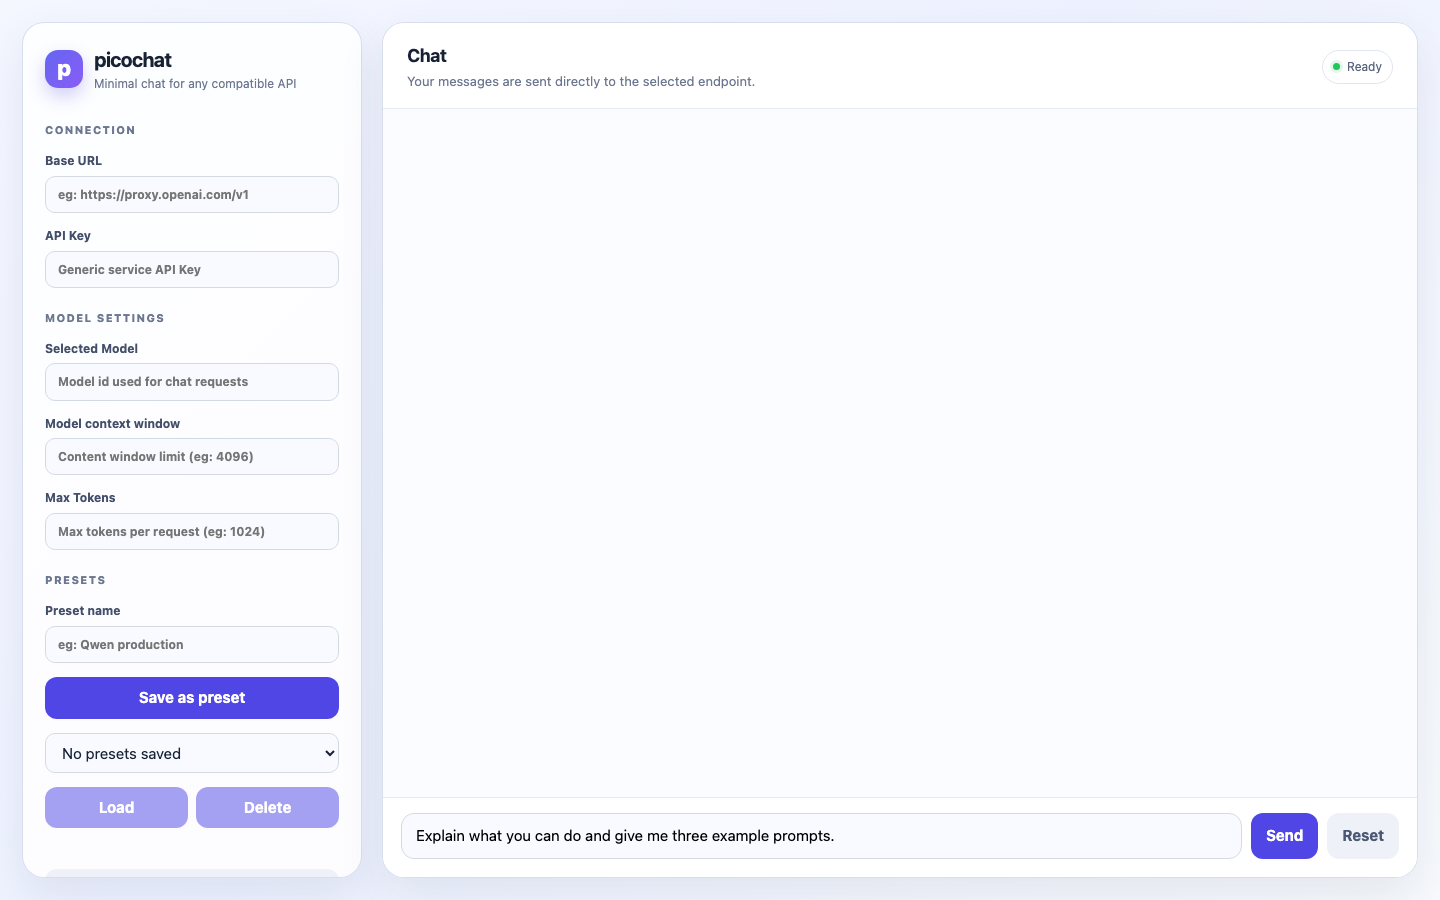
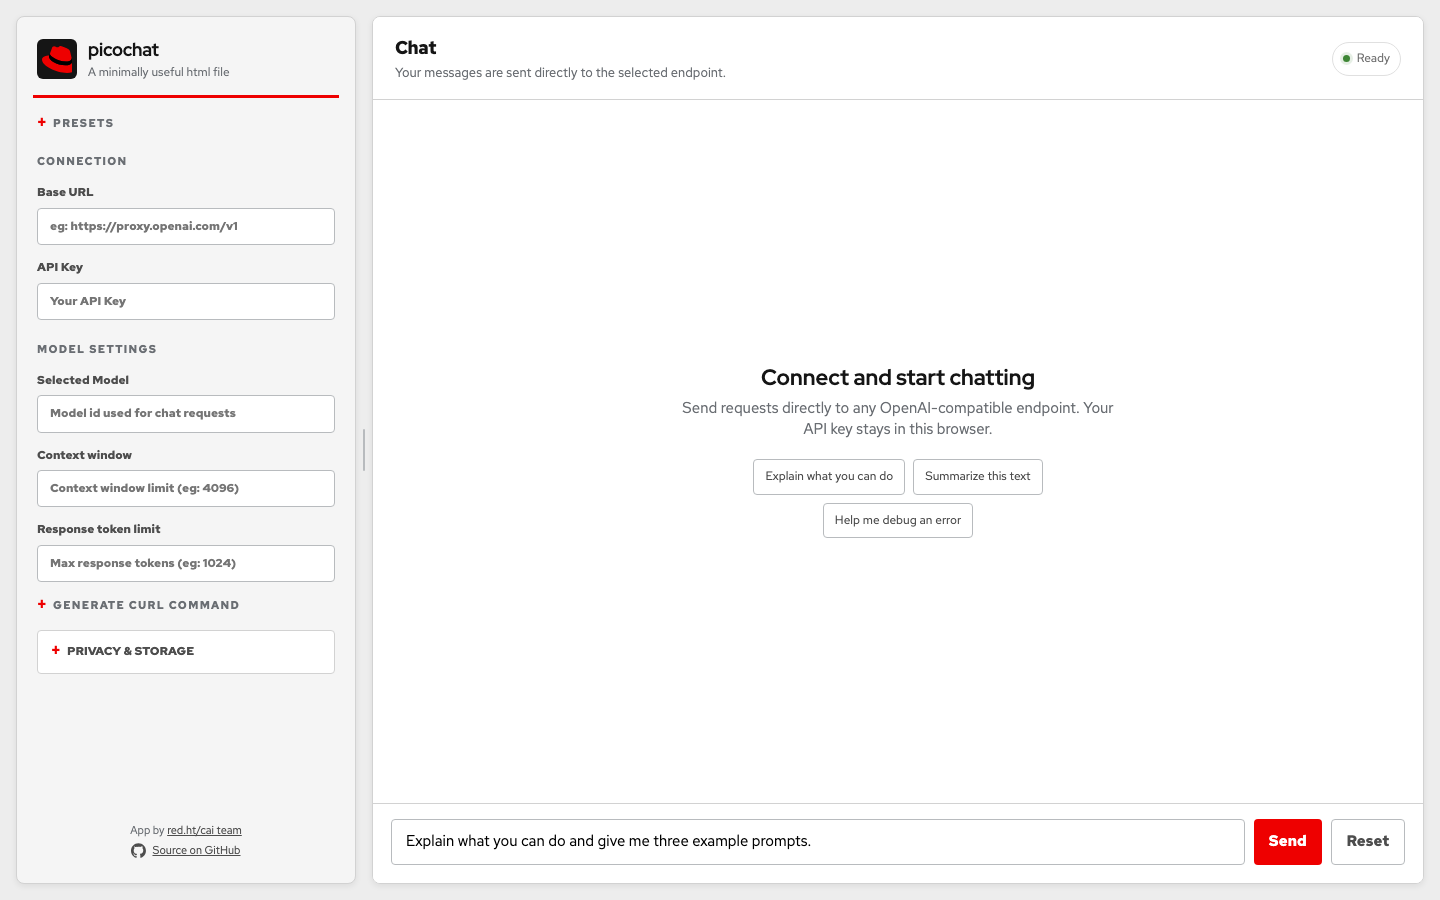
Add app attribution and source link; update backlog and improve UI elements

diff --git a/index.html b/index.html
@@ -8,50 +8,51 @@
 <link rel="preconnect" href="https://fonts.gstatic.com" crossorigin>
 <link rel="stylesheet" href="https://fonts.googleapis.com/css2?family=Red+Hat+Display:wght@500;700;800&family=Red+Hat+Mono:wght@400;700&family=Red+Hat+Text:wght@400;700&display=swap">
 <style>
-  :root { color-scheme: light; --ink: #151515; --muted: #707070; --line: #e0e0e0;
-           --panel: #fff; --accent: #e00; --accent-dark: #c00; }
+  :root { color-scheme: light; --ink: #151515; --muted: #6a6e73; --line: #d2d2d2;
+           --panel: #fff; --subtle: #f5f5f5; --accent: #ee0000; --accent-dark: #b00;
+           --focus: #0066cc; --success: #3e8635; --cfg-width: 340px; }
   * { box-sizing: border-box; }
   body { margin: 0; height: 100dvh; overflow: hidden;
-         font: 15px/1.45 "Red Hat Text", "RedHatText", system-ui, -apple-system, sans-serif; background: #f2f2f2; color: var(--ink); }
-  main { display: grid; grid-template-columns: minmax(290px, 340px) minmax(0, 1fr); height: 100%; gap: 20px; padding: 22px; }
-  #cfg, #right { min-height: 0; border: 1px solid #e0e0e0; border-radius: 22px; box-shadow: 0 18px 45px rgba(21,21,21,.08); }
-  #cfg { display: flex; flex-direction: column; gap: 14px; padding: 22px; background: var(--panel); overflow-y: auto; }
-  .brand { display: flex; align-items: center; gap: 11px; margin: 0 0 4px; padding: 12px 14px; border-radius: 14px; background: #151515; }
-  .logo { display: grid; place-items: center; width: 40px; height: 40px; flex: none; border-radius: 10px; background: #fff; padding: 5px; }
+         font: 15px/1.45 "Red Hat Text", "RedHatText", system-ui, -apple-system, sans-serif; background: #ededed; color: var(--ink); }
+  main { display: grid; grid-template-columns: var(--cfg-width) 16px minmax(0, 1fr); height: 100%; padding: 16px; }
+  #cfg, #right { min-height: 0; border: 1px solid var(--line); border-radius: 8px; box-shadow: 0 2px 6px rgba(21,21,21,.08); }
+  #cfg { display: flex; flex-direction: column; gap: 14px; padding: 20px; background: var(--subtle); overflow-y: auto; }
+  .brand { display: flex; align-items: center; gap: 11px; margin: -4px -4px 2px; padding: 4px 4px 14px; border-bottom: 3px solid var(--accent); }
+  .logo { display: grid; place-items: center; width: 40px; height: 40px; flex: none; border-radius: 6px; background: #151515; padding: 5px; }
   .logo svg { width: 100%; height: 100%; display: block; }
-  .brand h1 { margin: 0; font-family: "Red Hat Display", "RedHatDisplay", sans-serif; font-size: 18px; font-weight: 700; letter-spacing: -.01em; color: #fff; }
-  .brand p { margin: 1px 0 0; color: #a3a3a3; font-size: 12px; }
+  .brand h1 { margin: 0; font-family: "Red Hat Display", "RedHatDisplay", sans-serif; font-size: 18px; font-weight: 700; letter-spacing: -.01em; color: var(--ink); }
+  .brand p { margin: 1px 0 0; color: var(--muted); font-size: 12px; }
   .section-title { margin: 8px 0 0; color: var(--muted); font-size: 11px; font-weight: 800; letter-spacing: .12em; text-transform: uppercase; }
   #cfg label { font-weight: 700; font-size: 12px; color: #4d4d4d; display: flex; flex-direction: column; gap: 6px; }
-  input { font: inherit; padding: 9px 12px; border: 1px solid #c7c7c7; border-radius: 10px;
+  input { font: inherit; padding: 9px 12px; border: 1px solid #b8bbbe; border-radius: 4px;
           background: #fff; outline: none; min-width: 0; transition: border-color .15s, box-shadow .15s, background .15s; }
-  input:focus { border-color: #e00; background: #fff; box-shadow: 0 0 0 3px rgba(238,0,0,.10); }
-  select { width: 100%; font: inherit; padding: 9px 12px; border: 1px solid #c7c7c7; border-radius: 10px; background: #fff; color: var(--ink); }
-  select:focus { border-color: #e00; outline: none; box-shadow: 0 0 0 3px rgba(238,0,0,.10); }
+  input:focus { border-color: var(--focus); background: #fff; box-shadow: 0 0 0 2px rgba(0,102,204,.18); }
+  select { width: 100%; font: inherit; padding: 9px 12px; border: 1px solid #b8bbbe; border-radius: 4px; background: #fff; color: var(--ink); }
+  select:focus { border-color: var(--focus); outline: none; box-shadow: 0 0 0 2px rgba(0,102,204,.18); }
   textarea { font: 12px/1.35 "Red Hat Mono", "RedHatMono", ui-monospace, SFMono-Regular, Menlo, monospace; padding: 10px;
-             border: 1px solid #c7c7c7; border-radius: 12px; background: #fff; resize: vertical; }
-  textarea:focus { border-color: #e00; background: #fff; outline: none; box-shadow: 0 0 0 3px rgba(238,0,0,.10); }
+             border: 1px solid #b8bbbe; border-radius: 4px; background: #fff; resize: vertical; }
+  textarea:focus { border-color: var(--focus); background: #fff; outline: none; box-shadow: 0 0 0 2px rgba(0,102,204,.18); }
   #right { min-width: 0; display: flex; flex-direction: column; overflow: hidden; background: rgba(255,255,255,.9); }
-  .chat-head { display: flex; align-items: center; justify-content: space-between; gap: 12px; padding: 20px 24px 17px; border-bottom: 1px solid var(--line); background: rgba(255,255,255,.7); }
+  .chat-head { display: flex; align-items: center; justify-content: space-between; gap: 12px; padding: 18px 22px 16px; border-bottom: 1px solid var(--line); background: #fff; }
   .chat-head h2 { margin: 0; font-size: 18px; letter-spacing: -.02em; }
   .chat-head p { margin: 3px 0 0; color: var(--muted); font-size: 13px; }
   .status { display: inline-flex; align-items: center; gap: 7px; padding: 7px 10px; border: 1px solid #e0e0e0; border-radius: 999px; color: #707070; font-size: 12px; white-space: nowrap; }
-  .status::before { content: ''; width: 7px; height: 7px; border-radius: 50%; background: #22c55e; box-shadow: 0 0 0 3px rgba(34,197,94,.13); }
+  .status::before { content: ''; width: 7px; height: 7px; border-radius: 50%; background: var(--success); box-shadow: 0 0 0 3px rgba(62,134,53,.13); }
   #chat { flex: 1; min-height: 0; overflow-y: auto; display: flex; flex-direction: column;
           gap: 12px; padding: 24px; background: #fff; }
-  .msg { max-width: 75%; padding: 11px 14px; border-radius: 16px; white-space: pre-wrap; overflow-wrap: break-word; box-shadow: 0 5px 14px rgba(21,21,21,.05); }
-  .msg.user { align-self: flex-end; background: #151515; color: #fff; border-bottom-right-radius: 5px; }
-  .msg.assistant { align-self: flex-start; background: #fff; border: 1px solid #e0e0e0; border-bottom-left-radius: 5px; }
-  .msg.error { align-self: center; background: #fde8e8; color: #9b1c1c; font-size: 13px;
+  .msg { max-width: 75%; padding: 11px 14px; border-radius: 8px; white-space: pre-wrap; overflow-wrap: break-word; box-shadow: 0 1px 3px rgba(21,21,21,.08); }
+  .msg.user { align-self: flex-end; background: #151515; color: #fff; border-bottom-right-radius: 3px; }
+  .msg.assistant { align-self: flex-start; background: #fff; border: 1px solid #d2d2d2; border-left: 3px solid var(--accent); border-bottom-left-radius: 3px; }
+  .msg.error { align-self: center; background: #fff0f0; border: 1px solid #c9190b; color: #7d1007; font-size: 13px;
                font-family: "Red Hat Mono", "RedHatMono", ui-monospace, SFMono-Regular, Menlo, monospace; }
   form { display: flex; gap: 9px; padding: 15px 18px 18px; border-top: 1px solid var(--line); background: #fff; }
-  #prompt { flex: 1; padding: 11px 14px; border-radius: 13px; }
-  button { font: inherit; font-weight: 700; padding: 10px 15px; border: none; border-radius: 12px;
+  #prompt { flex: 1; padding: 11px 14px; border-radius: 4px; }
+  button { font: inherit; font-weight: 700; padding: 10px 15px; border: none; border-radius: 4px;
            background: var(--accent); color: #fff; cursor: pointer; transition: background .15s, transform .15s; }
   button:hover { background: var(--accent-dark); }
   button:active { transform: translateY(1px); }
   button:disabled { opacity: .5; cursor: default; }
-  #reset, #curl { background: #f2f2f2; color: #4d4d4d; }
+  #reset, #curl { background: #fff; color: #4d4d4d; border: 1px solid #b8bbbe; }
   #reset:hover, #curl:hover { background: #e0e0e0; }
   .button-row { display: flex; gap: 8px; }
   .button-row button { flex: 1; }
@@ -65,11 +66,29 @@
   details.collapsible summary::before { content: '+'; display: inline-block; width: 16px; color: var(--accent); font-size: 16px; letter-spacing: 0; line-height: 10px; vertical-align: -1px; }
   details.collapsible[open] summary::before { content: '−'; }
   .collapsible-body { display: grid; gap: 14px; margin-top: 12px; }
-  .privacy-note { margin-top: auto; padding: 12px 13px; border: 1px solid #e0e0e0; border-radius: 12px; background: #f2f2f2; color: #707070; font-size: 12px; }
+  .privacy-note { padding: 12px 13px; border: 1px solid #d2d2d2; border-radius: 4px; background: #fff; color: #707070; font-size: 12px; }
+  .app-meta { margin-top: auto; padding-top: 2px; color: var(--muted); font-size: 11px; text-align: center; }
+  .app-meta p { margin: 0; }
+  .app-meta a { color: #4d4d4d; }
+  .app-meta a:hover { color: var(--accent-dark); }
+  .app-meta .source-link { display: inline-flex; align-items: center; justify-content: center; gap: 6px; margin-top: 4px; font-size: 11px; }
+  .app-meta .source-link svg { width: 15px; height: 15px; fill: currentColor; }
+  button:focus-visible, input:focus-visible, select:focus-visible, textarea:focus-visible, summary:focus-visible { outline: 2px solid var(--focus); outline-offset: 2px; }
+  #empty-state { margin: auto; max-width: 500px; padding: 28px; text-align: center; color: var(--muted); }
+  #empty-state h3 { margin: 0 0 6px; color: var(--ink); font: 700 22px/1.2 "Red Hat Display", sans-serif; }
+  #empty-state p { margin: 0 0 18px; }
+  .examples { display: flex; flex-wrap: wrap; justify-content: center; gap: 8px; }
+  .example { padding: 8px 11px; border: 1px solid #b8bbbe; background: #fff; color: #4d4d4d; font-size: 12px; font-weight: 400; }
+  .example:hover { border-color: var(--focus); background: #f0f7ff; }
+  #resize-handle { position: relative; cursor: col-resize; touch-action: none; }
+  #resize-handle::before { content: ''; position: absolute; top: 50%; left: 50%; width: 2px; height: 42px;
+                            border-radius: 2px; background: #b8bbbe; transform: translate(-50%, -50%); transition: height .15s, background .15s; }
+  #resize-handle:hover::before, #resize-handle:focus-visible::before, #resize-handle.dragging::before { height: 64px; background: var(--accent); }
   .privacy-note summary { color: #4d4d4d !important; letter-spacing: 0 !important; font-size: 12px !important; }
   .privacy-note .collapsible-body { display: block; margin-top: 10px; line-height: 1.5; }
   @media (max-width: 900px) {
     main { display: flex; flex-direction: column; overflow-y: auto; padding: 12px; }
+    #resize-handle { display: none; }
     #cfg { flex: none; }
     .chat-head { padding: 16px 18px; }
     #chat { padding: 18px; }
@@ -97,20 +116,43 @@
     <label>API Key<input id="key" type="password" list="hist-key" placeholder="Your API Key" autocomplete="off"><datalist id="hist-key"></datalist></label>
     <div class="section-title">Model settings</div>
     <label>Selected Model<input id="model" list="hist-model" placeholder="Model id used for chat requests" spellcheck="false"><datalist id="hist-model"></datalist></label>
-    <label>Model context window<input id="ctx" type="number" min="1" list="hist-ctx" placeholder="Content window limit (eg: 4096)"><datalist id="hist-ctx"></datalist></label>
-    <label>Max Tokens<input id="max" type="number" min="1" list="hist-max" placeholder="Max tokens per request (eg: 1024)"><datalist id="hist-max"></datalist></label>
-    <button id="curl" type="button" title="Generate a curl command from the current settings">Generate curl command</button>
-    <textarea id="curl-out" rows="7" readonly aria-label="Generated curl command" placeholder="The generated curl command will appear here"></textarea>
+    <label>Context window<input id="ctx" type="number" min="1" list="hist-ctx" placeholder="Context window limit (eg: 4096)"><datalist id="hist-ctx"></datalist></label>
+    <label>Response token limit<input id="max" type="number" min="1" list="hist-max" placeholder="Max response tokens (eg: 1024)"><datalist id="hist-max"></datalist></label>
+    <details class="collapsible curl-section">
+      <summary>Generate curl command</summary>
+      <div class="collapsible-body">
+        <button id="curl" type="button" title="Generate a curl command from the current settings">Generate curl command</button>
+        <textarea id="curl-out" rows="7" readonly aria-label="Generated curl command" placeholder="The generated curl command will appear here"></textarea>
+      </div>
+    </details>
     <details class="collapsible privacy-note">
       <summary>Privacy &amp; storage</summary>
       <div class="collapsible-body">
         picochat has no backend: your messages and responses stay in this browser's memory and are cleared when the page is reloaded. Connection settings, API keys, recent values, and presets are saved only in this browser's local storage. When you send a message, the conversation and API key go directly to the endpoint you entered; that service's own privacy and retention rules still apply. Avoid using picochat on a shared or untrusted browser. You can also download this <code>index.html</code> file and open it locally if you prefer not to use a hosted copy.
       </div>
     </details>
+    <footer class="app-meta">
+      <p>App by <a href="http://red.ht/cai-team" target="_blank" rel="noreferrer">red.ht/cai team</a></p>
+      <a class="source-link" href="https://github.com/rh-aiservices-bu/picochat" target="_blank" rel="noreferrer">
+        <svg viewBox="0 0 98 96" aria-hidden="true"><path fill-rule="evenodd" d="M48.854 0C21.839 0 0 22 0 49.217c0 21.756 13.993 40.172 33.405 46.69 2.427.49 3.316-1.059 3.316-2.362 0-1.141-.08-5.052-.08-9.127-13.59 2.934-16.42-5.867-16.42-5.867-2.184-5.704-5.42-7.17-5.42-7.17-4.448-3.015.324-3.015.324-3.015 4.934.326 7.523 5.052 7.523 5.052 4.367 7.496 11.404 5.378 14.235 4.074.404-3.178 1.699-5.378 3.074-6.6-10.839-1.141-22.243-5.378-22.243-24.283 0-5.378 1.94-9.778 5.014-13.2-.485-1.222-2.184-6.275.486-13.038 0 0 4.125-1.304 13.426 5.052a46.97 46.97 0 0 1 12.214-1.63c4.125 0 8.33.571 12.213 1.63 9.302-6.356 13.427-5.052 13.427-5.052 2.67 6.763.97 11.816.485 13.038 3.155 3.422 5.015 7.822 5.015 13.2 0 18.905-11.404 23.06-22.324 24.283 1.78 1.548 3.316 4.481 3.316 9.126 0 6.6-.08 11.897-.08 13.526 0 1.304.89 2.853 3.316 2.364 19.412-6.52 33.405-24.935 33.405-46.691C97.707 22 75.788 0 48.854 0z"/></svg>
+        Source on GitHub
+      </a>
+    </footer>
   </section>
+  <div id="resize-handle" role="separator" aria-label="Resize configuration panel" aria-orientation="vertical" aria-valuemin="290" aria-valuemax="520" aria-valuenow="340" tabindex="0"></div>
   <div id="right">
-    <header class="chat-head"><div><h2>Chat</h2><p>Your messages are sent directly to the selected endpoint.</p></div><span class="status">Ready</span></header>
-    <section id="chat" aria-live="polite"></section>
+  <header class="chat-head"><div><h2>Chat</h2><p>Your messages are sent directly to the selected endpoint.</p></div><span id="status" class="status" aria-live="polite">Ready</span></header>
+    <section id="chat" aria-live="polite">
+      <div id="empty-state">
+        <h3>Connect and start chatting</h3>
+        <p>Send requests directly to any OpenAI-compatible endpoint. Your API key stays in this browser.</p>
+        <div class="examples" aria-label="Example prompts">
+          <button class="example" type="button">Explain what you can do</button>
+          <button class="example" type="button">Summarize this text</button>
+          <button class="example" type="button">Help me debug an error</button>
+        </div>
+      </div>
+    </section>
     <form id="send">
       <input id="prompt" placeholder="Send a message…" autocomplete="off">
       <button id="go" type="submit">Send</button>
@@ -245,13 +287,72 @@ $('delete-preset').onclick = () => {
 };
 renderPresets();
 
+// ---- resizable configuration panel ----
+const main = document.querySelector('main');
+const resizeHandle = $('resize-handle');
+const LAYOUT = 'picochat.layout.v1';
+const MIN_CFG_WIDTH = 290;
+const MAX_CFG_WIDTH = 520;
+
+function maxCfgWidth() {
+  return Math.max(MIN_CFG_WIDTH, Math.min(MAX_CFG_WIDTH, main.clientWidth - 16 - 320));
+}
+function setCfgWidth(width, save = false) {
+  const next = Math.round(Math.max(MIN_CFG_WIDTH, Math.min(maxCfgWidth(), width)));
+  main.style.setProperty('--cfg-width', next + 'px');
+  resizeHandle.setAttribute('aria-valuenow', next);
+  if (save) localStorage.setItem(LAYOUT, String(next));
+}
+try {
+  const savedWidth = Number(localStorage.getItem(LAYOUT));
+  if (Number.isFinite(savedWidth) && savedWidth > 0) setCfgWidth(savedWidth);
+} catch {}
+
+let resizeStartX = 0, resizeStartWidth = 0;
+resizeHandle.addEventListener('pointerdown', e => {
+  if (window.matchMedia('(max-width: 900px)').matches) return;
+  resizeStartX = e.clientX;
+  resizeStartWidth = $('cfg').getBoundingClientRect().width;
+  resizeHandle.classList.add('dragging');
+  resizeHandle.setPointerCapture(e.pointerId);
+});
+resizeHandle.addEventListener('pointermove', e => {
+  if (!resizeHandle.hasPointerCapture(e.pointerId)) return;
+  setCfgWidth(resizeStartWidth + e.clientX - resizeStartX);
+});
+resizeHandle.addEventListener('pointerup', e => {
+  if (!resizeHandle.hasPointerCapture(e.pointerId)) return;
+  resizeHandle.releasePointerCapture(e.pointerId);
+  resizeHandle.classList.remove('dragging');
+  setCfgWidth($('cfg').getBoundingClientRect().width, true);
+});
+resizeHandle.addEventListener('keydown', e => {
+  const current = $('cfg').getBoundingClientRect().width;
+  if (e.key === 'ArrowLeft' || e.key === 'ArrowRight') {
+    e.preventDefault();
+    setCfgWidth(current + (e.key === 'ArrowRight' ? 16 : -16), true);
+  } else if (e.key === 'Home') {
+    e.preventDefault();
+    setCfgWidth(MIN_CFG_WIDTH, true);
+  } else if (e.key === 'End') {
+    e.preventDefault();
+    setCfgWidth(MAX_CFG_WIDTH, true);
+  }
+});
+window.addEventListener('resize', () => setCfgWidth($('cfg').getBoundingClientRect().width));
+
 if (!prompt.value) prompt.value = 'Explain what you can do and give me three example prompts.';
+document.querySelectorAll('.example').forEach(b => b.addEventListener('click', () => {
+  prompt.value = b.textContent;
+  prompt.focus();
+}));
 
 // ---- chat state: stateless API, so the full history is re-sent each request ----
 let msgs = [];   // [{role, content}]
 let busy = false;
 
 function addMsg(role, text) {
+  $('empty-state').hidden = true;
   const d = document.createElement('div');
   d.className = 'msg ' + role;
   d.textContent = text;
@@ -261,7 +362,14 @@ function addMsg(role, text) {
 }
 function scroll() { chat.scrollTop = chat.scrollHeight; }
 
-$('reset').onclick = () => { if (!busy) { msgs = []; chat.innerHTML = ''; } };
+$('reset').onclick = () => {
+  if (!busy) {
+    msgs = [];
+    chat.querySelectorAll('.msg').forEach(d => d.remove());
+    $('empty-state').hidden = false;
+    $('status').textContent = 'Ready';
+  }
+};
 
 // Generate a portable shell command for reproducing the current request.
 function shellQuote(s) { return "'" + s.replaceAll("'", "'\\''") + "'"; }
@@ -352,7 +460,7 @@ $('send').addEventListener('submit', async e => {
 
   const url = base + '/chat/completions';
 
-  busy = true; go.disabled = true;
+  busy = true; go.disabled = true; $('status').textContent = 'Sending';
   msgs.push({ role: 'user', content: text });
   const sent = fit(msgs, ctx, max);
   const body = { model, messages: sent, ...(max ? { max_tokens: max } : {}), stream: true };
@@ -385,6 +493,7 @@ $('send').addEventListener('submit', async e => {
     }
     dbg.status = res.status; dbg.contentType = res.headers.get('content-type');
     console.log('[picochat] ←', res.status, res.statusText, 'streaming');
+    $('status').textContent = 'Streaming';
     const full = await streamSSE(res, t => { bubble.textContent = t; scroll(); });
     bubble.textContent = full || '(empty response)';
     msgs.push({ role: 'assistant', content: full });
@@ -403,8 +512,10 @@ $('send').addEventListener('submit', async e => {
     if (err instanceof TypeError) lines.push('(fetch never resolved — usually network/CORS/DNS/TLS; check the base URL)');
     console.error('[picochat] request failed', (err && err.stack) || String(err), dbg);
     addMsg('error', lines.join('\n'));
+    $('status').textContent = 'Error';
   } finally {
     busy = false; go.disabled = false;
+    if ($('status').textContent === 'Streaming') $('status').textContent = 'Ready';
   }
 });
 </script>

diff --git a/backlog.md b/backlog.md
@@ -1,6 +1,6 @@
 # Backlog
 
-- Make the left panel resizable.
+- [x] Make the left panel resizable.
 - Add a Stop button to cancel an in-progress streamed response.
 - Add Retry for failed assistant requests.
 - Export and import conversations as JSON or Markdown.
@@ -16,4 +16,5 @@
 - Support non-streaming responses as a fallback.
 - Add optional conversation persistence, disabled by default for privacy.
 - Add a Copy button for the generated curl command.
-- Make the “Generate curl command” section foldable.
+- [x] Make the “Generate curl command” section foldable.
+- [x] Add bottom-aligned app attribution and source link.

diff --git a/README.md b/README.md
@@ -34,6 +34,8 @@ Responsive narrow layout for smaller screens:
 
 ![picochat responsive layout](screenshots/picochat-mobile.png)
 
+The settings panel includes a bottom-aligned attribution for the red.ht/cai team and a link to the [picochat source repository](https://github.com/rh-aiservices-bu/picochat).
+
 ## Configure a connection
 
 Fill in the left-hand panel:
